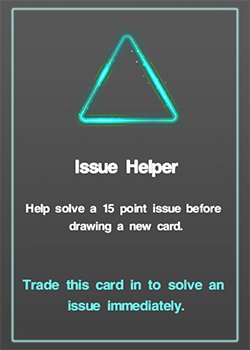
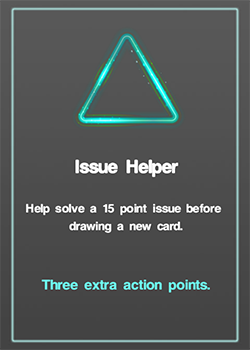
using objective card + misc
Some final fixes on some of the obj cards...

Changed region(s): [[0.252, 0.8, 0.896, 0.9143], [0.084, 0.7714, 0.644, 0.8286]]

diff --git a/src/client/Scenes/GameScene_Update.cpp b/src/client/Scenes/GameScene_Update.cpp
@@ -44,10 +44,12 @@ game_global_scenes GameScene::update(const ASGE::GameTime& game_time)
   {
     board.clearItems();
     for (int i = 0;
-         i < Locator::getPlayers()
-               ->getPlayer(
-                 players[Locator::getPlayers()->my_player_index]->current_class)
-               ->getHeldItemAmount();
+         i <
+         Locator::getPlayers()
+             ->getPlayer(
+               players[Locator::getPlayers()->my_player_index]->current_class)
+             ->getHeldItemAmount() +
+           1;
          ++i)
     {
       DataShare new_share_item =
@@ -56,10 +58,34 @@ game_global_scenes GameScene::update(const ASGE::GameTime& game_time)
       Locator::getNetworkInterface()->sendData(new_share_item);
     }
 
+    debug_text.print(
+      "Creating " +
+      std::to_string(
+        Locator::getPlayers()
+          ->getPlayer(
+            players[Locator::getPlayers()->my_player_index]->current_class)
+          ->getHeldItemAmount()) +
+      " new item cards.");
     Locator::getPlayers()
       ->getPlayer(
         static_cast<player_classes>(Locator::getPlayers()->my_player_index))
       ->setReplenishItems(false);
+  }
+
+  // End client turn auto if chasing chicken
+  if (Locator::getPlayers()
+        ->getPlayer(Locator::getPlayers()
+                      ->players[Locator::getPlayers()->my_player_index]
+                      .current_class)
+        ->getChasingChicken() &&
+      players[Locator::getPlayers()->my_player_index]->is_active)
+  {
+    DataShare new_share = DataShare(data_roles::CLIENT_WANTS_TO_END_TURN);
+    new_share.add(Locator::getPlayers()->my_player_index);
+    Locator::getNetworkInterface()->sendData(new_share);
+    current_scene_lock_active = true;
+    debug_text.print("Requesting to end my go!!");
+    board.resetCardVariables();
   }
 
   // Check (and perform) item card updates
@@ -253,6 +279,13 @@ void GameScene::updateButtonStates(const ASGE::GameTime& game_time)
                   .is_active &&
                 !ui_manager.getButton(ui_buttons::ROLL_DICE_BTN)->isActive());
 
+  ui_manager.getButton(ui_buttons::END_TURN_BTN)
+    ->setActive(rolled_dice_this_turn);
+
+  ui_manager.getButton(ui_buttons::OBJECTIVE_BTN)
+    ->setActive(board.getObjectiveInventory().size() > static_cast<size_t>(0) &&
+                players[Locator::getPlayers()->my_player_index]->is_active);
+
   if (!rolled_dice_this_turn)
   {
     ui_manager.getButton(ui_buttons::ROLL_DICE_BTN)->setActive(true);
@@ -291,5 +324,6 @@ void GameScene::updateButtonStates(const ASGE::GameTime& game_time)
     ui_manager.getButton(ui_buttons::ROLL_DICE_BTN)->setActive(false);
     ui_manager.getButton(ui_buttons::END_TURN_BTN)->setActive(false);
     ui_manager.getButton(ui_buttons::BUY_ITEM_BTN)->setActive(false);
+    ui_manager.getButton(ui_buttons::OBJECTIVE_BTN)->setActive(false);
   }
 }

diff --git a/src/client/Scenes/GameScene_Render.cpp b/src/client/Scenes/GameScene_Render.cpp
@@ -41,7 +41,6 @@ void GameScene::render()
                                   ->getPlayer(players[i]->current_class)
                                   ->getGameTabSprite()
                                   ->getSprite());
-
         // draw score if player is connected
         if (players[i]->current_class != player_classes::UNASSIGNED)
         {
@@ -89,6 +88,7 @@ void GameScene::render()
       ui_manager.getButton(ui_buttons::BUY_ITEM_BTN)->render();
       ui_manager.getButton(ui_buttons::ROLL_DICE_BTN)->render();
       ui_manager.getButton(ui_buttons::CHAT_BTN)->render();
+      ui_manager.getButton(ui_buttons::OBJECTIVE_BTN)->render();
 
       // Render chat on top of everything else.
       if (entering_msg)
@@ -171,6 +171,5 @@ void GameScene::render()
     renderer->renderSprite(
       *ui_manager.getSprite(ui_sprites::DISCONNECT_OVERLAY)->getSprite());
   }
-
   debugOutput();
 }

diff --git a/src/client/Scenes/GameScene_Interaction.cpp b/src/client/Scenes/GameScene_Interaction.cpp
@@ -535,6 +535,13 @@ void GameScene::playingClicksWhenActive(Vector2& mouse_pos)
 /* Handle clicks when playing and active or inactive */
 void GameScene::playingClicksWhenActiveOrInactive(Vector2& mouse_pos)
 {
+  // Clicked on Use Objective Card Btn
+  if (ui_manager.getButton(ui_buttons::OBJECTIVE_BTN)->clicked())
+  {
+    debug_text.print("user clicked objective card.");
+    board.useObjCardDebug();
+  }
+
   // Clicked on an objective card
   if (board.isHoveringOverObjectiveCard(mouse_pos))
   {
@@ -613,6 +620,7 @@ void GameScene::playingClicksWhenActiveOrInactive(Vector2& mouse_pos)
         button_index++;
       }
     }
+
     ui_manager.popups().getPopup(ui_popups::ISSUE_POPUP)->show();
   }
 }

diff --git a/src/client/Board/GameBoard.cpp b/src/client/Board/GameBoard.cpp
@@ -532,6 +532,7 @@ void GameBoard::checkissueSolved()
   }
   // if any cards have been completed and deleted when client ends turn we want
   // to update the server active_issue_cards too.
+  // THIS NEEDS CHANGING SO IT UPDATES IF MORE THAN ONE CARD HAS BEEN SOLVED.
   if (issue_solved)
   {
     auto new_share = DataShare(data_roles::CLIENT_SOLVED_ISSUE_CARD);
@@ -573,7 +574,8 @@ void GameBoard::useObjCardDebug()
 {
   if (!objective_card_inventory.empty())
   {
-    objective_card_inventory.front().useObjectiveCard();
+    objective_card_inventory.back().useObjectiveCard();
+    objective_card_inventory.pop_back();
   }
 }
 

diff --git a/src/client/Scenes/GameScene.cpp b/src/client/Scenes/GameScene.cpp
@@ -169,6 +169,10 @@ void GameScene::createButtonsAndPopups()
     ->setPos(Vector2(1042, 551));
   ui_manager.createButton(ui_buttons::CHAT_BTN, "UI/INGAME_UI/chat_btn.png")
     ->setPos(Vector2(330, 679));
+  ui_manager
+    .createButton(ui_buttons::OBJECTIVE_BTN,
+                  "UI/INGAME_UI/use_objective_btn.png")
+    ->setPos(Vector2(847, 551));
 
   // Issue popup card placeholder
   ScaledSprite& card_placeholder = ui_manager.popups()

diff --git a/src/client/Board/GameBoard.h b/src/client/Board/GameBoard.h
@@ -34,6 +34,10 @@ class GameBoard
   IssueCard* getClickedIssueCard(Vector2 clicked_pos);
   ObjectiveCard* getClickedObjectiveCard(Vector2 clicked_pos);
   std::vector<IssueCard> getIssueCards();
+  std::vector<ObjectiveCard> getObjectiveInventory()
+  {
+    return objective_card_inventory;
+  }
 
   void setActiveIssueCards(int active_cards[5], bool is_new_rotation);
   void setActiveObjectiveCard(int card_index);

diff --git a/src/server/server_functionality.cpp b/src/server/server_functionality.cpp
@@ -481,7 +481,7 @@ void RaceToSpaceServer::initLobbyDecks()
     for (int j = 0; j < 12; ++j)
     {
       // Create for most recent lobby.
-      lobbies.back().objective_deck.push_back(j);
+      lobbies.back().objective_deck.push_back(1);
     }
   }
 

diff --git a/src/client/Cards/ObjectiveCard.cpp b/src/client/Cards/ObjectiveCard.cpp
@@ -56,7 +56,7 @@ void ObjectiveCard::useObjectiveCard()
     }
     case objective_cards::ISSUE_HELPER_15:
     {
-      // Delete an issue immediately
+      // +3 AP
       increaseAP();
       break;
     }

diff --git a/src/gamelib/Constants.h b/src/gamelib/Constants.h
@@ -67,7 +67,8 @@ enum ui_buttons
   END_TURN_BTN,
   BUY_ITEM_BTN,
   ROLL_DICE_BTN,
-  CHAT_BTN
+  CHAT_BTN,
+  OBJECTIVE_BTN
 };
 
 /* UI card offsets */
